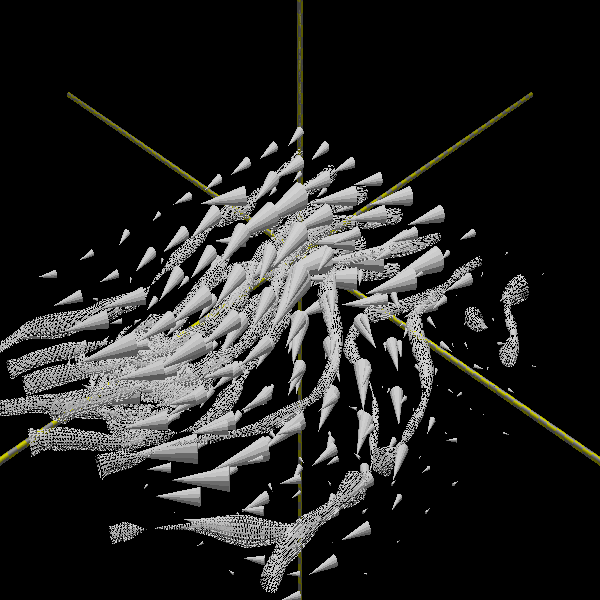
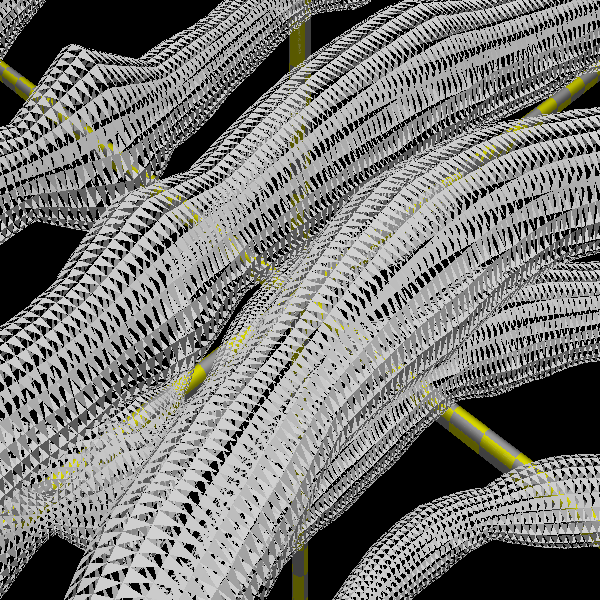
Patch - camera closer

diff --git a/examples/cone_plot.m b/examples/cone_plot.m
@@ -29,7 +29,7 @@ pov.global_settings("assumed_gamma 1");
 % Camera
 % type: perspective | orthographic | mesh_camera{MESHCAM_MODIFIERS} | fisheye | ultra_wide_angle |
 %       omnimax | panoramic | cylinder CylinderType (<int[1..4]>) | spherical
-pov.camera('angle', 35, 'location', [70 70 60], 'look_at', [0 0 -5], 'type', 'perspective');
+pov.camera('angle', 35, 'location', [17 17 17], 'look_at', [0 0 0], 'type', 'perspective');
 
 % pov.camera('angle', 35, 'location', [12 12 5], 'look_at', [0 1 0]);
 % pov.camera('location', [12 12 12], 'look_at', [0 1 0]);
@@ -115,9 +115,9 @@ p = 15;
 t = streamtube(u,v,w,Sx,Sy,Sz);
 pov.streamtube('data', t);
 
-[Cx, Cy, Cz] = meshgrid(1:4:m,1:4:n,1:4:p);
-h = coneplot(u,v,w,Cx,Cy,Cz,y,5);
-pov.coneplot('data', h);
+% [Cx, Cy, Cz] = meshgrid(1:4:m,1:4:n,1:4:p);
+% h = coneplot(u,v,w,Cx,Cy,Cz,y,5);
+% pov.coneplot('data', h);
 
 axis tight equal
 view(37,32)
